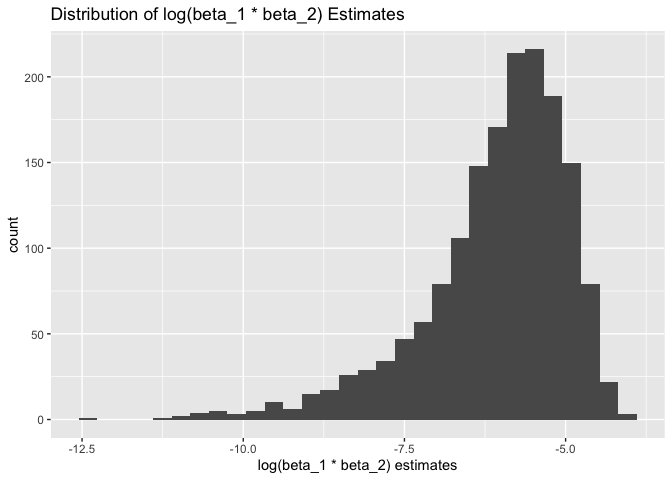
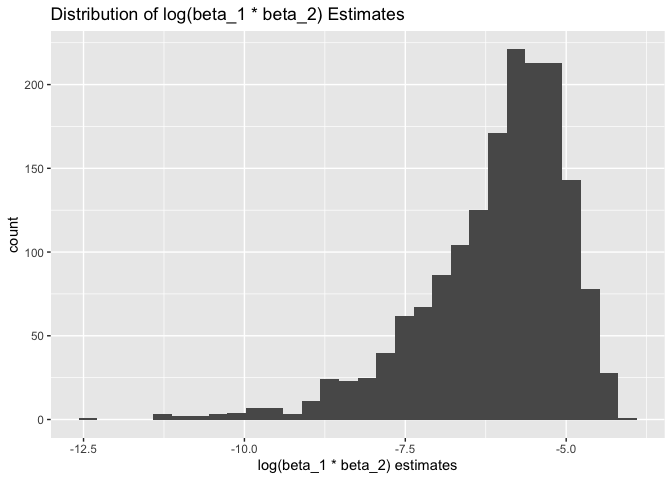
p1 revise

diff --git a/p8105_hw6_hc3451.md b/p8105_hw6_hc3451.md
@@ -176,6 +176,7 @@ ggplot(result, aes(x = reorder(city_state, odd_ratio),
     ## generated.
 
 ![](p8105_hw6_hc3451_files/figure-gfm/unnamed-chunk-6-1.png)<!-- -->
+
 Therefore, we can get New York (city 30) has the lowest odds ratio
 between gender, while Albuquerque (city 1) has the highest odds ratio
 between gender.
@@ -244,12 +245,12 @@ head(result)
     ## # A tibble: 6 × 2
     ##   r_squared log_beta1_2
     ##       <dbl>       <dbl>
-    ## 1     0.924      NaN   
-    ## 2     0.912       -5.12
-    ## 3     0.926      NaN   
-    ## 4     0.932      NaN   
-    ## 5     0.922       -7.00
-    ## 6     0.921       -6.98
+    ## 1     0.896       -5.07
+    ## 2     0.889       -4.60
+    ## 3     0.922      NaN   
+    ## 4     0.908       -4.38
+    ## 5     0.913       -7.22
+    ## 6     0.907      NaN
 
 ## Plot Distributions: r^2
 
@@ -294,7 +295,7 @@ r2_ci
 ```
 
     ##      2.5%     97.5% 
-    ## 0.8891448 0.9404889
+    ## 0.8884210 0.9408156
 
 ``` r
 log_beta12_ci = quantile(pull(result, log_beta1_2),
@@ -303,7 +304,7 @@ log_beta12_ci
 ```
 
     ##      2.5%     97.5% 
-    ## -9.019491 -4.553760
+    ## -8.829379 -4.580485
 
 # Problem 3
 
